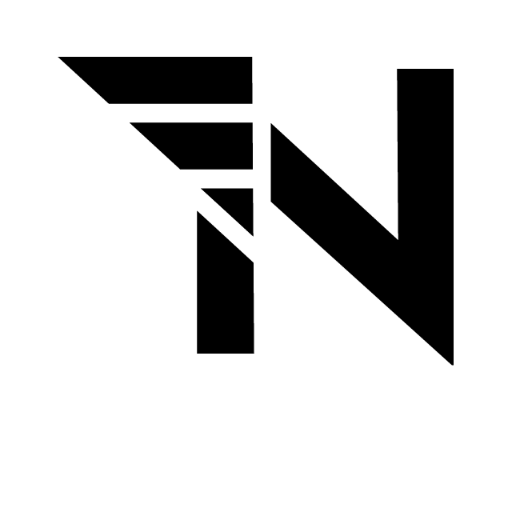
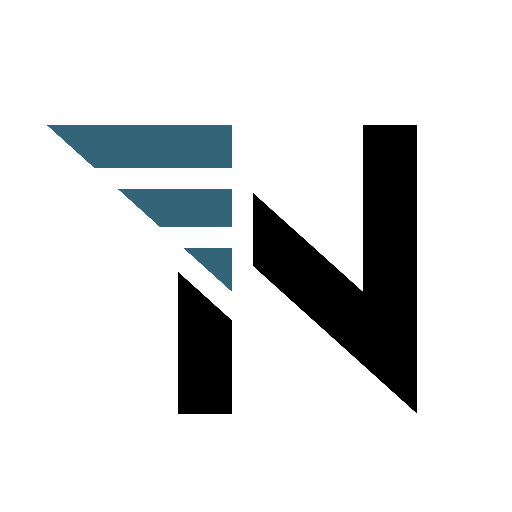
add whatsapp business link

Changed region(s): [[0.0938, 0.0938, 0.9062, 0.8125]]

diff --git a/pages/index.vue b/pages/index.vue
@@ -6,9 +6,9 @@
         <div class="max-w-sm rounded overflow-hidden shadow-lg mt-20 bg-white">
           <div class="px-6 py-4 flex flex-wrap justify-center">
             <img
-              src="~/assets/images/numago-logo.svg"
+              src="~/assets/images/numago-logo-final.svg"
               alt=""
-              class="mt-4 h-20"
+              class="mt-4 h-20 w-3/4"
             />
             <p class="text-gray-700 text-base mt-4">
               <b>Numago - Internetbureau</b> <br />
@@ -50,7 +50,7 @@
           </a>
           <!-- <n-link to="about"> -->
           <a :href="whatsappLink">
-            <button class="_green-button _block-button" disabled>
+            <button class="_green-button _block-button">
               <svg
                 class="fill-current w-4 h-4 mr-2"
                 xmlns="http://www.w3.org/2000/svg"
@@ -61,7 +61,7 @@
                   fill-rule="evenodd"
                 />
               </svg>
-              <span>Whatsapp</span>
+              <span>WhatsApp</span>
             </button>
           </a>
           <!-- </n-link> -->
@@ -85,7 +85,7 @@ export default Vue.extend({
   data() {
     return {
       email: 'info@numago.nl',
-      whatsappLink: 'https://whatsapp.com/random',
+      whatsappLink: ' https://wa.me/message/3Y7D4GVKZSRUO1',
     }
   },
 })
